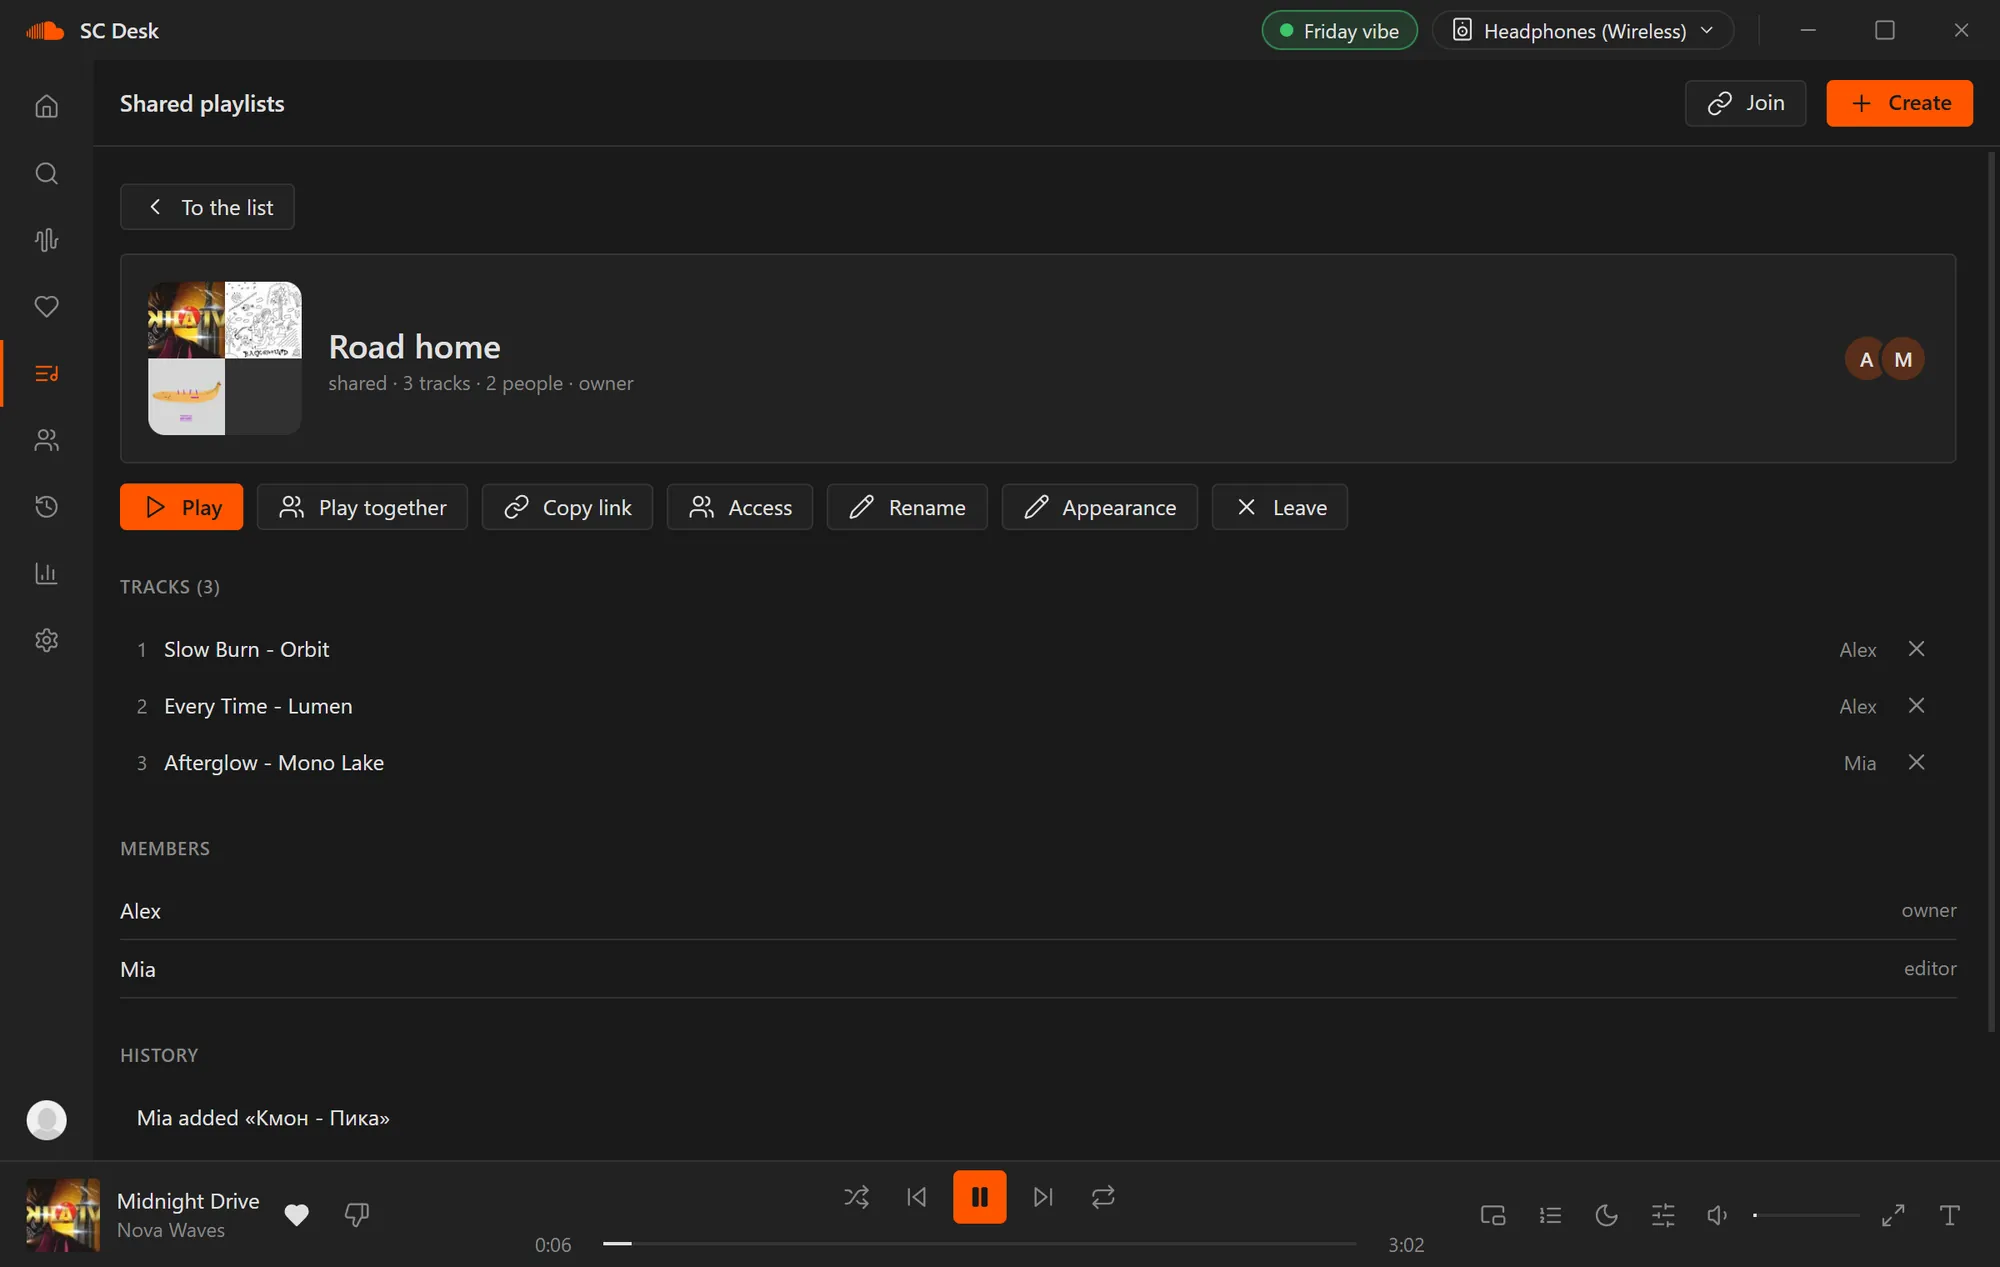
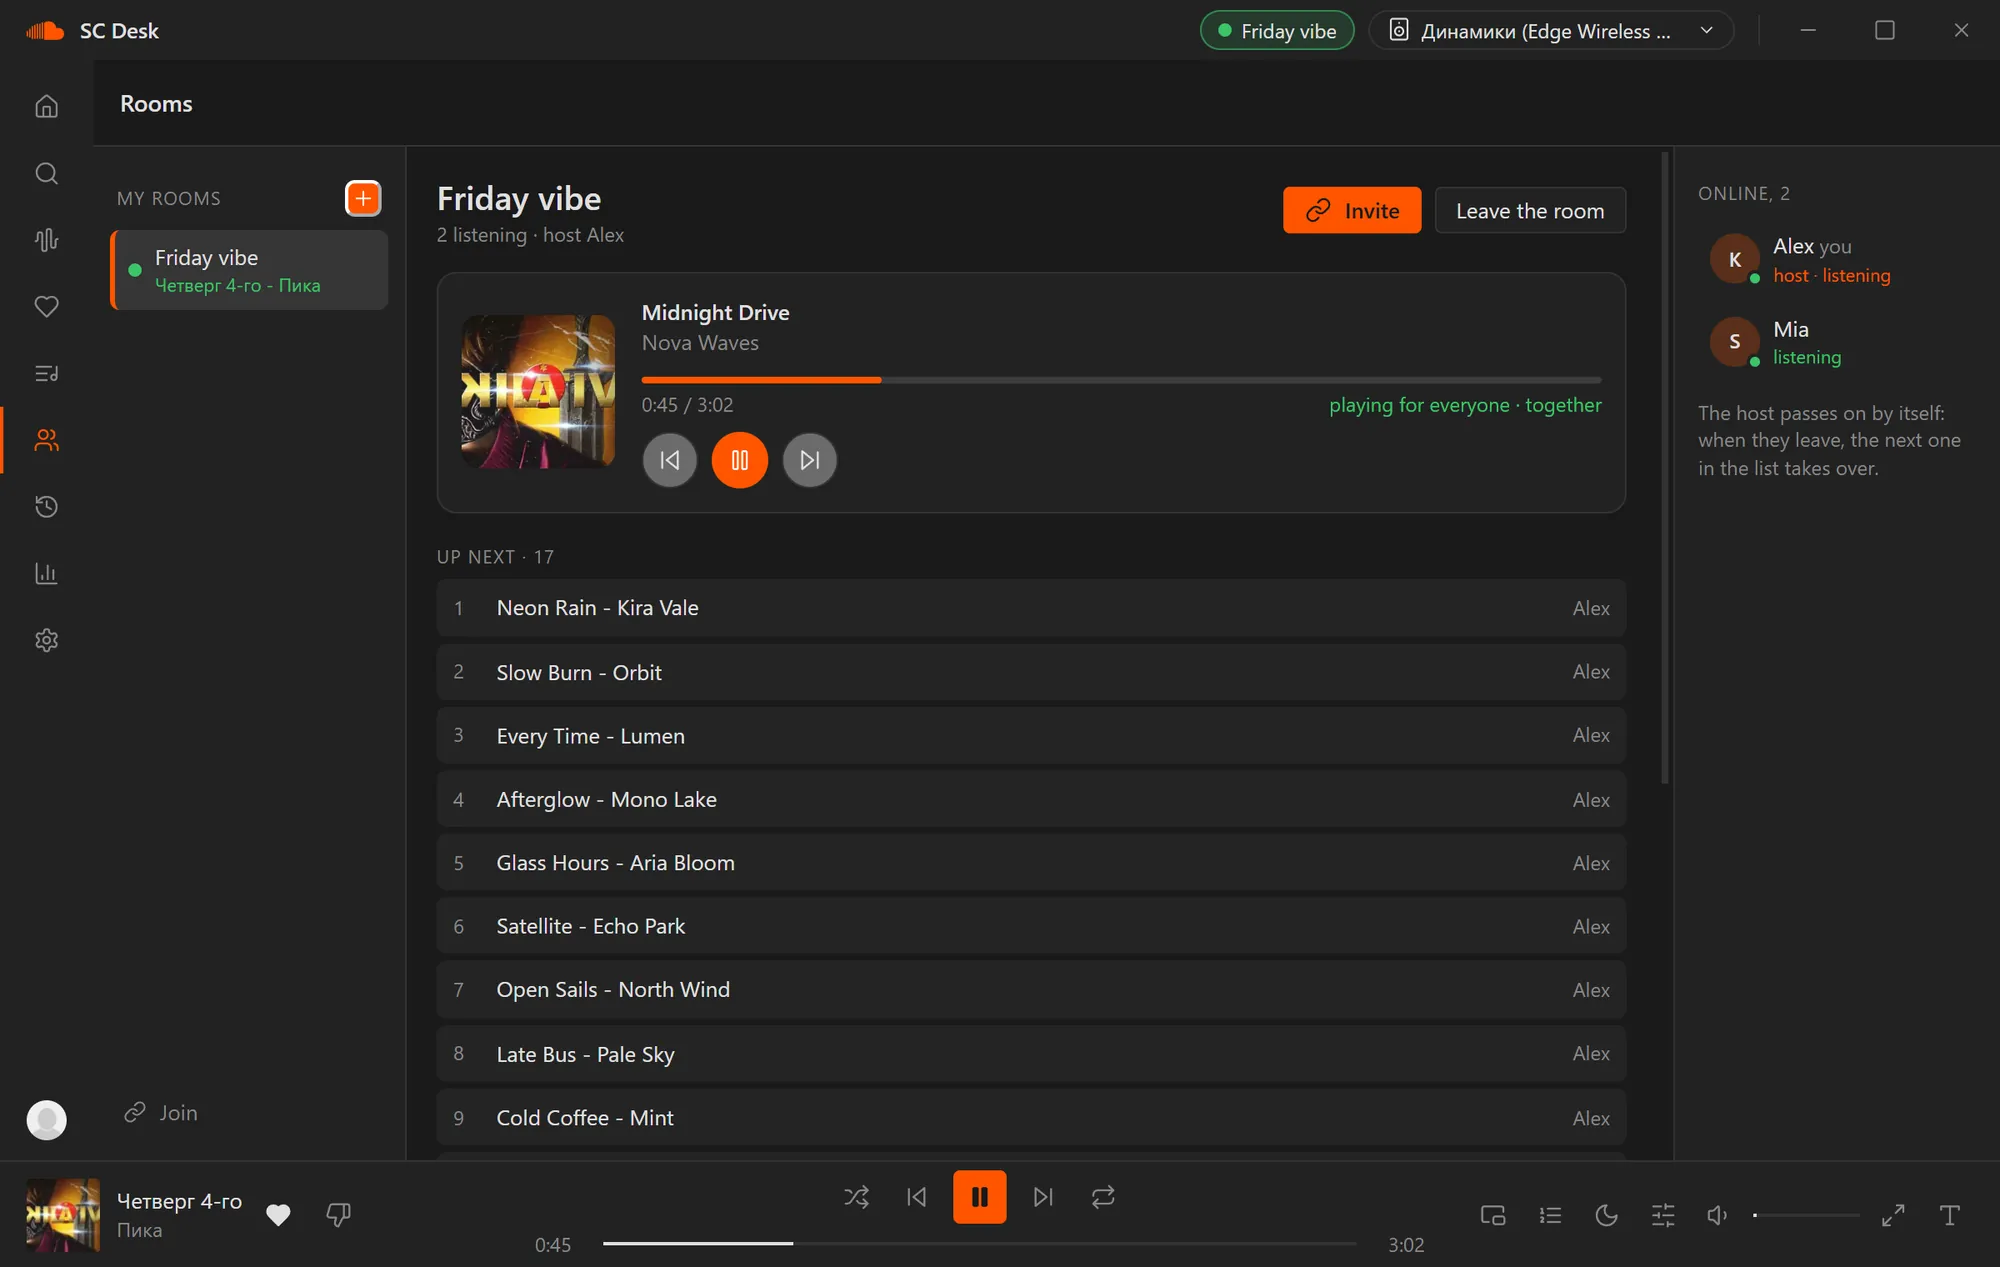
Сайт: убрана лишняя полоса с кружками, больше возможностей, которых нет в SoundCloud

diff --git a/docs/index.html b/docs/index.html
@@ -23,14 +23,13 @@
 <main id="top">
   <section class="hero">
     <h1>SoundCloud на компьютере.<br><span>Без рекламы.</span></h1>
-    <p class="lead">Волна под ваш вкус, комнаты для совместного прослушивания, общие плейлисты и тексты песен по словам.</p>
+    <p class="lead">То, чего нет в самом SoundCloud: волна под ваш вкус, комнаты для совместного прослушивания, общие плейлисты и тексты песен по словам.</p>
     <div class="cta">
       <a class="btn primary big dl-link" href="https://github.com/b1rkarokK/SC-Desktop/releases/latest" data-download>Скачать для Windows<small class="ver"></small></a>
       <a class="btn big" href="https://github.com/b1rkarokK/SC-Desktop">Исходный код</a>
     </div>
     <p class="meta"><span>Бесплатно · Windows 10 и 11</span><span class="meta-size"></span></p>
     <div class="window hero-window">
-      <div class="winbar"><i></i><i></i><i></i></div>
       <picture><source media="(prefers-color-scheme: light)" srcset="assets/wave-light.webp"><img class="" src="assets/wave-dark.webp" width="2000" height="1267" alt="Моя волна" decoding="async"></picture>
     </div>
   </section>
@@ -48,7 +47,6 @@
       </div>
       <div class="stage">
         <div class="window">
-          <div class="winbar"><i></i><i></i><i></i></div>
           <div class="shots">
             <div class="shot is-on" data-step="0" data-x="23" data-y="27"><picture><source media="(prefers-color-scheme: light)" srcset="assets/wave-light.webp"><img class="" src="assets/wave-dark.webp" width="2000" height="1267" alt="Моя волна" decoding="async"></picture></div>
             <div class="shot" data-step="1" data-x="70.4" data-y="16.7"><picture><source media="(prefers-color-scheme: light)" srcset="assets/rooms-light.webp"><img class="" src="assets/rooms-dark.webp" width="2000" height="1267" alt="Комнаты" loading="lazy" decoding="async"></picture></div>
@@ -64,6 +62,10 @@
   <section class="features">
     <ul>
         <li><h3>Без рекламы</h3><p>Только музыка: никаких вставок между треками.</p></li>
+        <li><h3>Эквалайзер и скорость</h3><p>Настройте звук под себя, ускоряйте и замедляйте треки, ставьте таймер сна.</p></li>
+        <li><h3>Выбор устройства вывода</h3><p>Колонки, наушники или Bluetooth: переключайтесь прямо в шапке программы.</p></li>
+        <li><h3>Статус в Discord</h3><p>Друзья видят, что вы слушаете, и могут зайти к вам в комнату.</p></li>
+        <li><h3>Итоги и история</h3><p>Статистика прослушиваний и вся история в одном месте.</p></li>
         <li><h3>Всё у вас</h3><p>Лайки, история и настройки хранятся на вашем компьютере. Комнаты и общие плейлисты шифруются на ваших устройствах.</p></li>
         <li><h3>Открытый код</h3><p>Код программы можно прочитать и проверить на GitHub.</p></li>
     </ul>

diff --git a/docs/en/index.html b/docs/en/index.html
@@ -23,14 +23,13 @@
 <main id="top">
   <section class="hero">
     <h1>SoundCloud on your PC.<br><span>Without ads.</span></h1>
-    <p class="lead">A wave for your taste, rooms to listen together, shared playlists and word-by-word lyrics.</p>
+    <p class="lead">What SoundCloud itself does not have: a wave for your taste, rooms to listen together, shared playlists and word-by-word lyrics.</p>
     <div class="cta">
       <a class="btn primary big dl-link" href="https://github.com/b1rkarokK/SC-Desktop/releases/latest" data-download>Download for Windows<small class="ver"></small></a>
       <a class="btn big" href="https://github.com/b1rkarokK/SC-Desktop">Source code</a>
     </div>
     <p class="meta"><span>Free · Windows 10 and 11</span><span class="meta-size"></span></p>
     <div class="window hero-window">
-      <div class="winbar"><i></i><i></i><i></i></div>
       <picture><source media="(prefers-color-scheme: light)" srcset="../assets/en-wave-light.webp"><img class="" src="../assets/en-wave-dark.webp" width="2000" height="1267" alt="My Wave" decoding="async"></picture>
     </div>
   </section>
@@ -48,7 +47,6 @@
       </div>
       <div class="stage">
         <div class="window">
-          <div class="winbar"><i></i><i></i><i></i></div>
           <div class="shots">
             <div class="shot is-on" data-step="0" data-x="22.1" data-y="27.2"><picture><source media="(prefers-color-scheme: light)" srcset="../assets/en-wave-light.webp"><img class="" src="../assets/en-wave-dark.webp" width="2000" height="1267" alt="My Wave" decoding="async"></picture></div>
             <div class="shot" data-step="1" data-x="67.6" data-y="16.7"><picture><source media="(prefers-color-scheme: light)" srcset="../assets/en-rooms-light.webp"><img class="" src="../assets/en-rooms-dark.webp" width="2000" height="1267" alt="Rooms" loading="lazy" decoding="async"></picture></div>
@@ -64,6 +62,10 @@
   <section class="features">
     <ul>
         <li><h3>No ads</h3><p>Only music: nothing between the tracks.</p></li>
+        <li><h3>Equalizer and speed</h3><p>Shape the sound, speed tracks up or slow them down, set a sleep timer.</p></li>
+        <li><h3>Output device picker</h3><p>Speakers, headphones or Bluetooth: switch right in the app header.</p></li>
+        <li><h3>Discord status</h3><p>Friends see what you listen to and can join your room.</p></li>
+        <li><h3>Recap and history</h3><p>Listening stats and the full history in one place.</p></li>
         <li><h3>Yours alone</h3><p>Likes, history and settings stay on your computer. Rooms and shared playlists are encrypted on your devices.</p></li>
         <li><h3>Open source</h3><p>The code can be read and checked on GitHub.</p></li>
     </ul>
